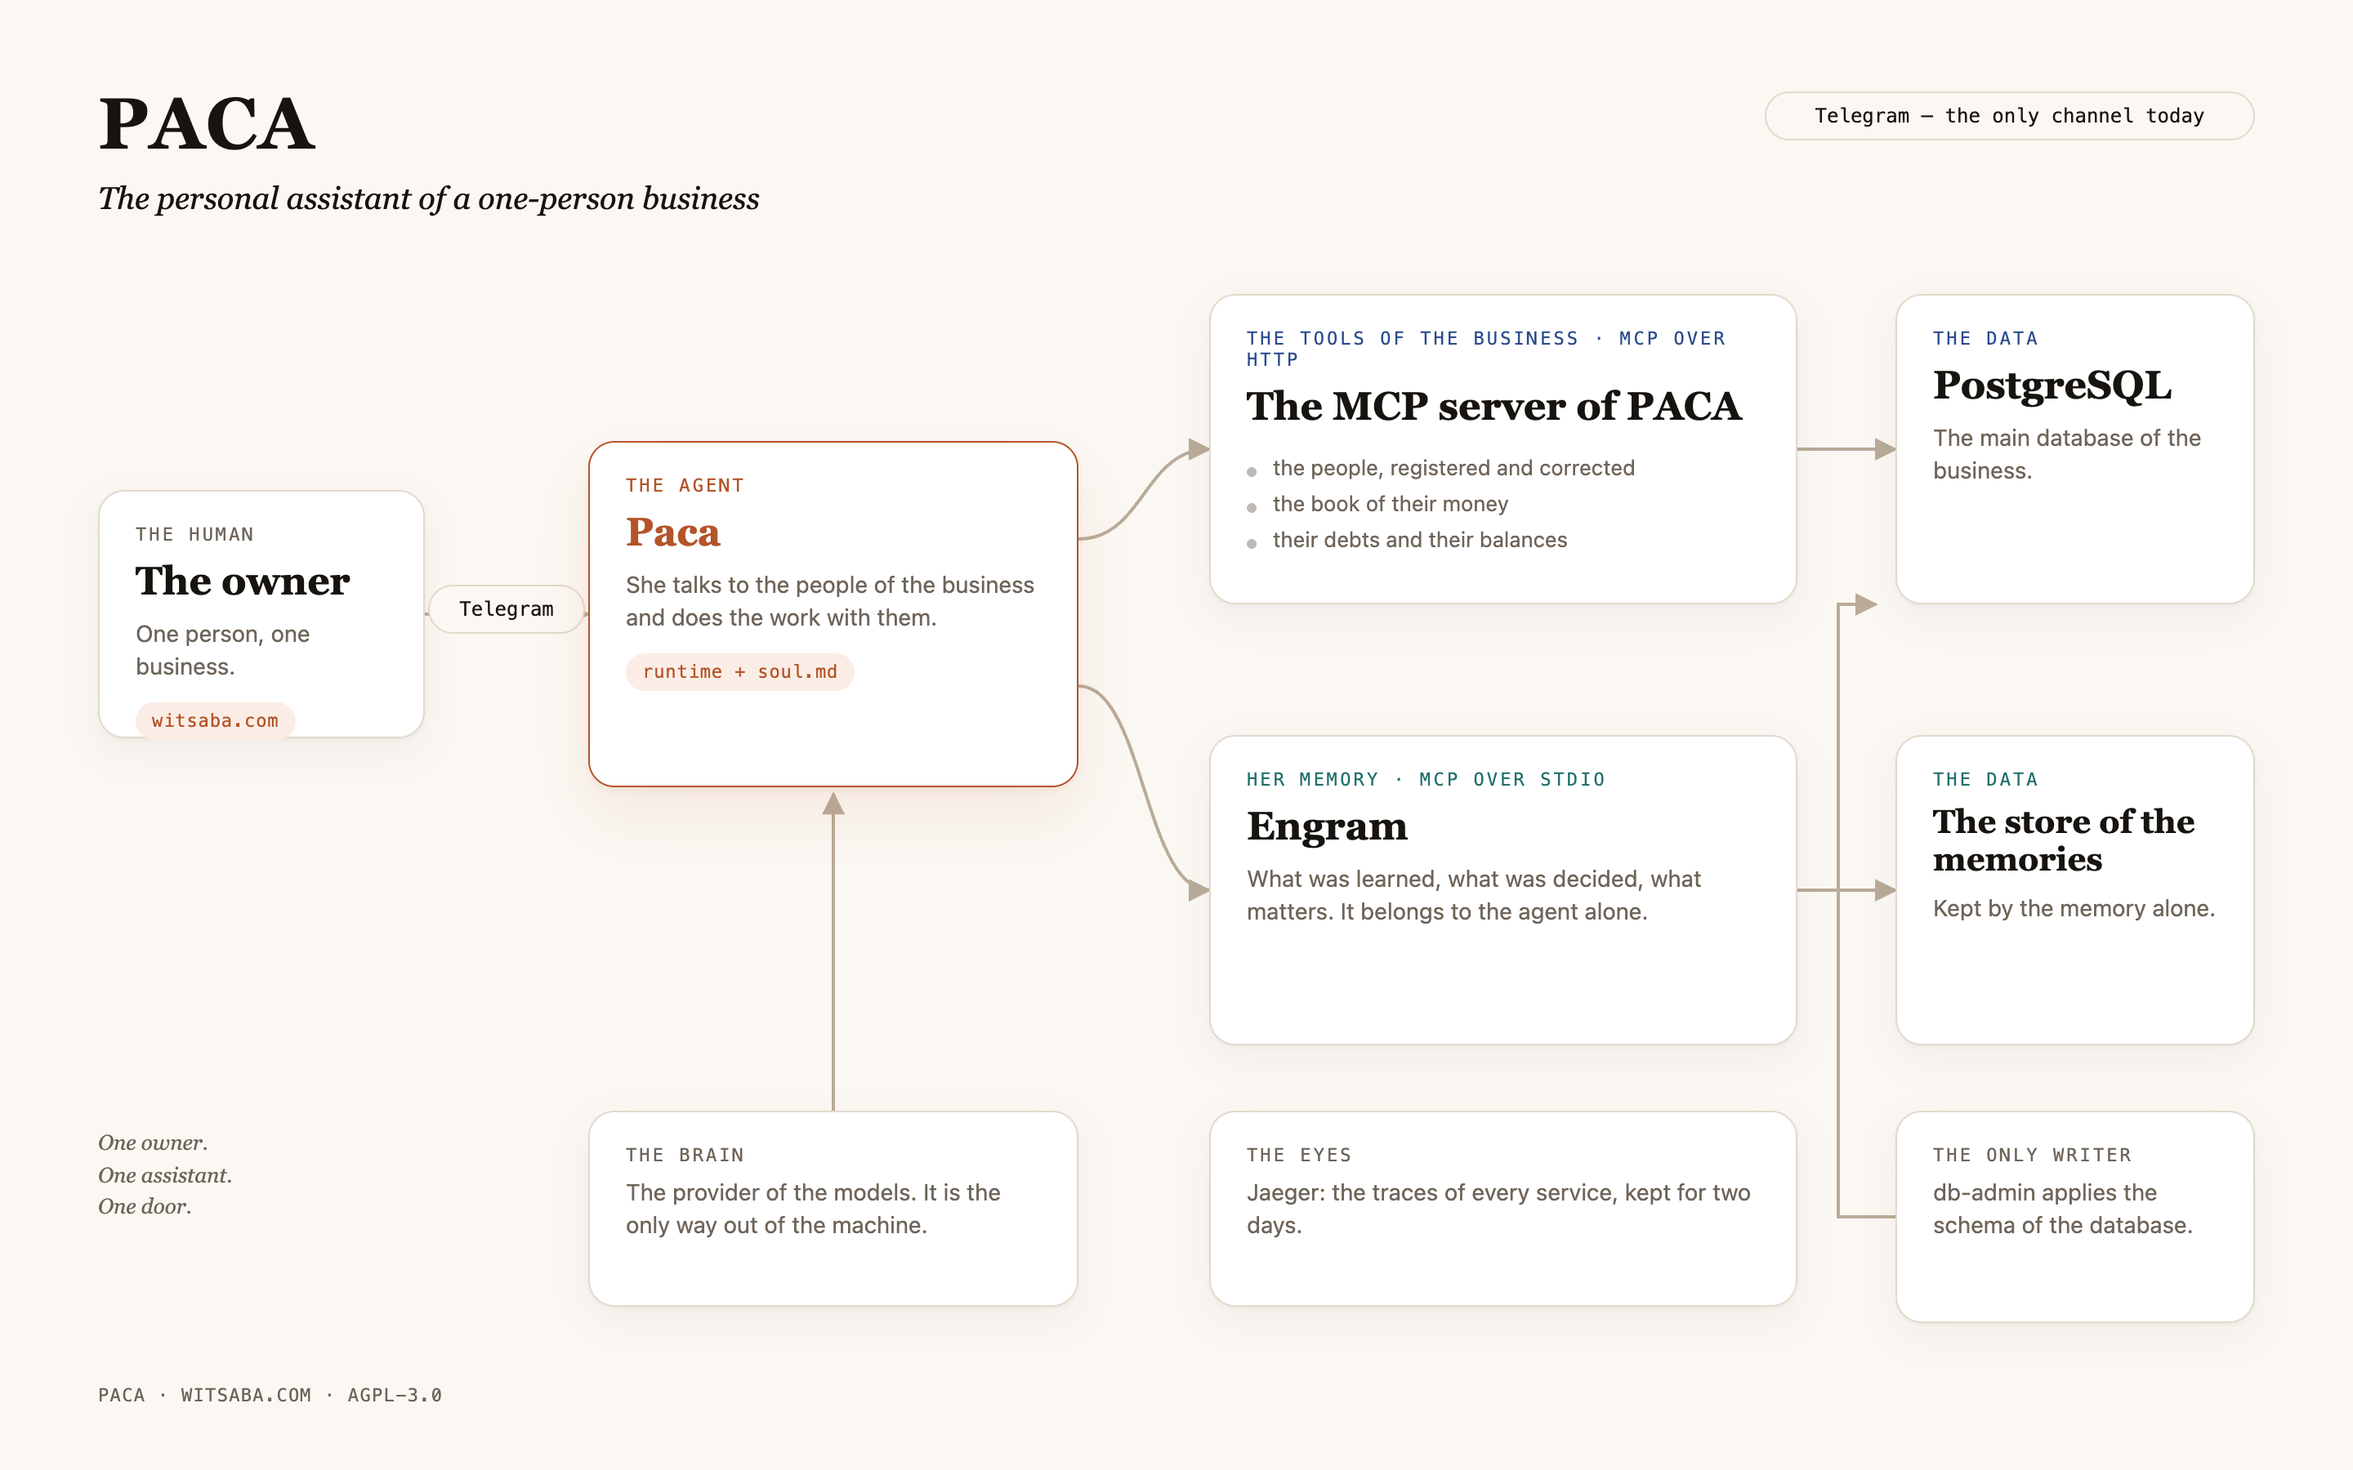
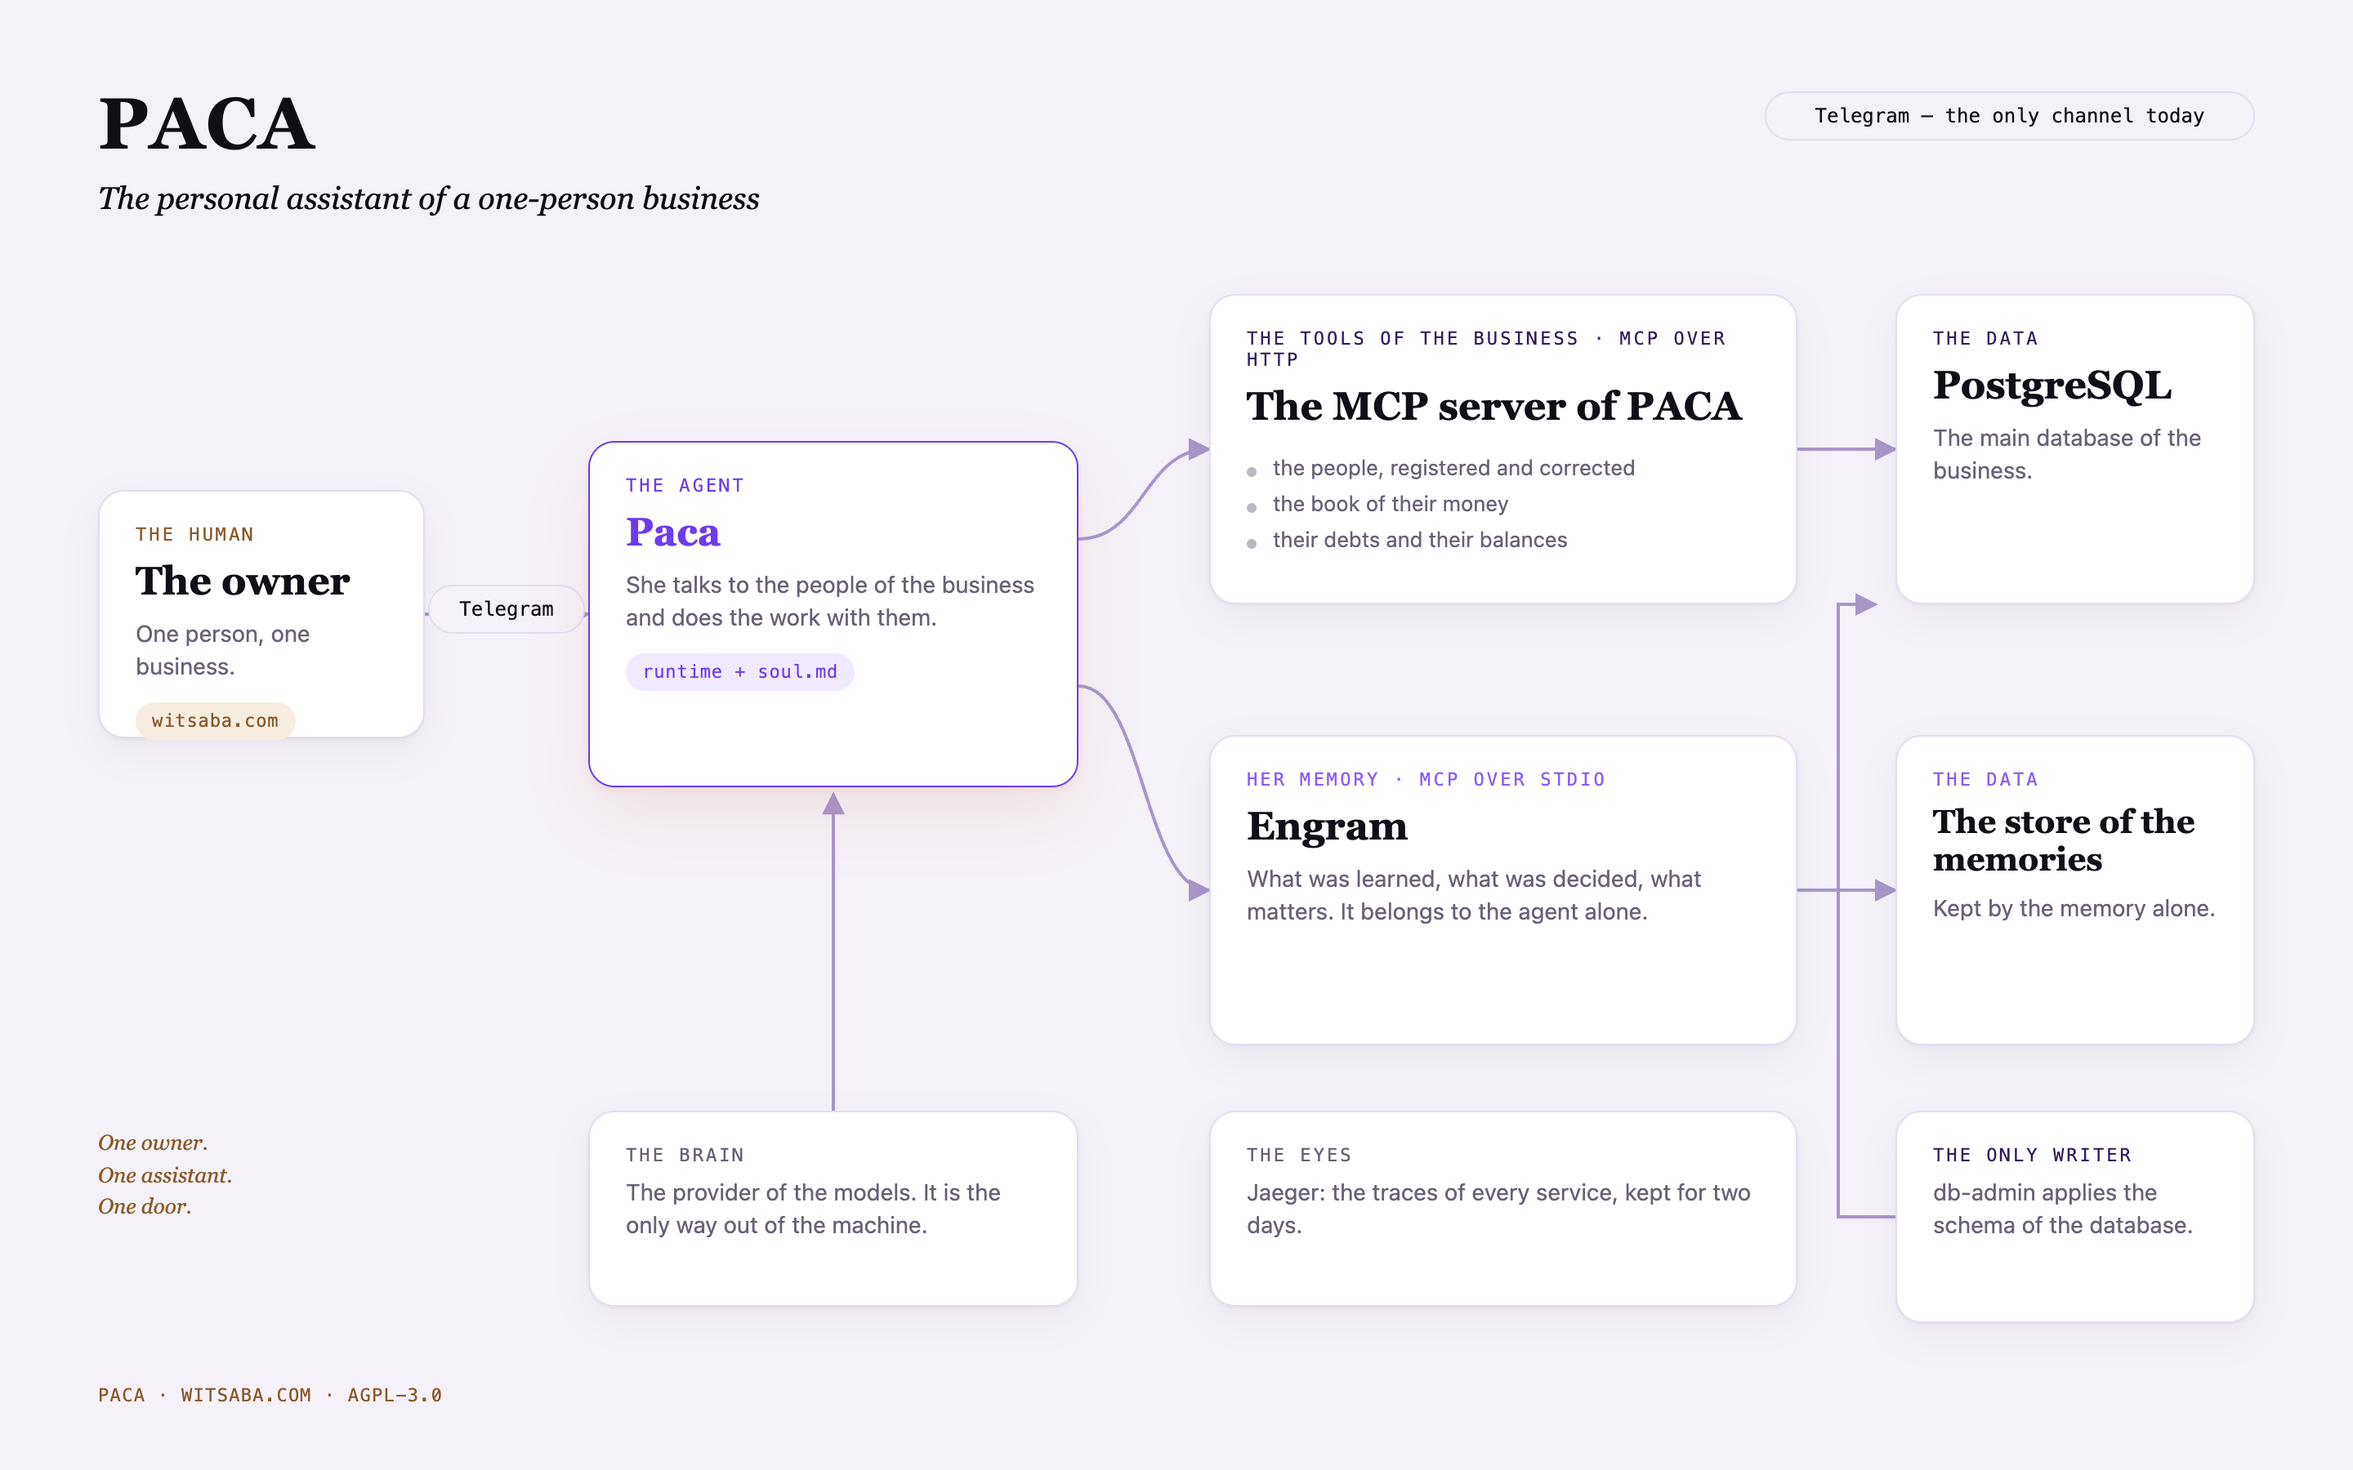
style(design): make PACA purple-dominant, with black and brown
The palette of the artboards said terracotta, blue and teal. Paca is
purple: the accent of the agent, the deep violet of the tools and the
data, the mauve of the memory, the black of the ink and the brown of
the human and of the warmth.

diff --git a/design/paca-architecture/02-blueprint.html b/design/paca-architecture/02-blueprint.html
@@ -5,8 +5,8 @@
 <title>PACA — architecture, blueprint</title>
 <style>
   :root{
-    --bg:#0A1020; --panel:#111A2E; --line:#1E2B47; --grid:#16223A;
-    --ink:#E8EDF7; --muted:#8496B5; --cyan:#4FD1C5; --amber:#F6AD55; --violet:#A78BFA; --blue:#63B3ED;
+    --bg:#0C0812; --panel:#150F20; --line:#2A1F42; --grid:#1A1230;
+    --ink:#EFEAF8; --muted:#9A8DB5; --purple:#A78BFA; --purple-deep:#7C5CE8; --mauve:#C4B5FD; --brown:#B07C4A;
     --mono:ui-monospace,SFMono-Regular,Menlo,Consolas,"Liberation Mono",monospace;
   }
   *{box-sizing:border-box}
@@ -35,10 +35,10 @@
   <svg class="svg" viewBox="0 0 1440 900" aria-hidden="true">
     <defs>
       <marker id="a" viewBox="0 0 10 10" refX="9" refY="5" markerWidth="7" markerHeight="7" orient="auto-start-reverse">
-        <path d="M0,0 L10,5 L0,10 z" fill="#5C7196"/>
+        <path d="M0,0 L10,5 L0,10 z" fill="#6E5C93"/>
       </marker>
     </defs>
-    <g fill="none" stroke="#5C7196" stroke-width="2" stroke-dasharray="5 6" marker-end="url(#a)">
+    <g fill="none" stroke="#6E5C93" stroke-width="2" stroke-dasharray="5 6" marker-end="url(#a)">
       <path d="M260,376 L360,376"/>
       <path d="M660,330 C700,330 700,275 740,275"/>
       <path d="M660,420 C700,420 700,545 740,545"/>
@@ -52,59 +52,60 @@
   <div class="h1">PACA</div>
   <div class="h2">// the personal assistant of a one-person business</div>
   <div class="legend">
-    <div><span class="dot" style="background:var(--amber)"></span>agent</div>
-    <div><span class="dot" style="background:var(--blue)"></span>tools &amp; data</div>
-    <div><span class="dot" style="background:var(--cyan)"></span>memory</div>
+    <div><span class="dot" style="background:var(--purple)"></span>agent</div>
+    <div><span class="dot" style="background:var(--purple-deep)"></span>tools &amp; data</div>
+    <div><span class="dot" style="background:var(--mauve)"></span>memory</div>
+    <div><span class="dot" style="background:var(--brown)"></span>the human</div>
   </div>
-  <div class="badge" style="left:1060px;top:120px">telegram // the only channel today</div>
+  <div class="badge" style="left:60px;top:148px">telegram // the only channel today</div>
 
-  <div class="node" style="left:60px;top:300px;width:200px;height:152px;border-color:#3A4B70">
-    <div class="k">the human</div>
+  <div class="node" style="left:60px;top:300px;width:200px;height:152px;border-color:#4A3826">
+    <div class="k" style="color:var(--brown)">the human</div>
     <div class="t">The owner</div>
     <div class="d">One person, one business.<br>witsaba.com</div>
   </div>
 
-  <div class="node" style="left:360px;top:270px;width:300px;height:212px;border-color:var(--amber);box-shadow:0 0 0 1px rgba(246,173,85,.18)">
-    <div class="k" style="color:var(--amber)">the agent</div>
-    <div class="t" style="color:var(--amber)">Paca</div>
+  <div class="node" style="left:360px;top:270px;width:300px;height:212px;border-color:var(--purple);box-shadow:0 0 0 1px rgba(167,139,250,.20)">
+    <div class="k" style="color:var(--purple)">the agent</div>
+    <div class="t" style="color:var(--purple)">Paca</div>
     <div class="d">Hermes runtime + soul.md.<br>She talks and works.</div>
   </div>
 
-  <div class="node" style="left:740px;top:180px;width:360px;height:190px;border-color:var(--blue)">
-    <div class="k" style="color:var(--blue)">the tools of the business</div>
+  <div class="node" style="left:740px;top:180px;width:360px;height:190px;border-color:var(--purple-deep)">
+    <div class="k" style="color:var(--purple-deep)">the tools of the business</div>
     <div class="t">The MCP server of PACA</div>
     <div class="d">people · book of money · debts<br>custom tools, MCP over HTTP</div>
   </div>
 
-  <div class="node" style="left:740px;top:450px;width:360px;height:190px;border-color:var(--cyan)">
-    <div class="k" style="color:var(--cyan)">her memory</div>
+  <div class="node" style="left:740px;top:450px;width:360px;height:190px;border-color:var(--mauve)">
+    <div class="k" style="color:var(--mauve)">her memory</div>
     <div class="t">Engram</div>
     <div class="d">What was learned and decided.<br>MCP over stdio.</div>
   </div>
 
-  <div class="node" style="left:1160px;top:180px;width:220px;height:190px;border-color:var(--blue)">
-    <div class="k" style="color:var(--blue)">the data</div>
+  <div class="node" style="left:1160px;top:180px;width:220px;height:190px;border-color:var(--purple-deep)">
+    <div class="k" style="color:var(--purple-deep)">the data</div>
     <div class="t">PostgreSQL</div>
     <div class="d">the main database</div>
   </div>
 
-  <div class="node" style="left:1160px;top:450px;width:220px;height:190px;border-color:var(--cyan)">
-    <div class="k" style="color:var(--cyan)">the data</div>
+  <div class="node" style="left:1160px;top:450px;width:220px;height:190px;border-color:var(--mauve)">
+    <div class="k" style="color:var(--mauve)">the data</div>
     <div class="t" style="font-size:17px">The store of the memories</div>
     <div class="d">kept by the memory alone</div>
   </div>
 
-  <div class="node" style="left:360px;top:680px;width:300px;height:130px;border-color:#3A4B70">
+  <div class="node" style="left:360px;top:680px;width:300px;height:130px;border-color:#4A3826">
     <div class="k">the brain</div>
     <div class="d" style="margin-top:8px">the provider of the models — the only way out of the machine</div>
   </div>
 
-  <div class="node" style="left:740px;top:680px;width:360px;height:130px;border-color:#3A4B70">
+  <div class="node" style="left:740px;top:680px;width:360px;height:130px;border-color:#4A3826">
     <div class="k">the eyes</div>
     <div class="d" style="margin-top:8px">jaeger — the traces of every service, kept for two days</div>
   </div>
 
-  <div class="node" style="left:1160px;top:680px;width:220px;height:130px;border-color:#3A4B70">
+  <div class="node" style="left:1160px;top:680px;width:220px;height:130px;border-color:#4A3826">
     <div class="k">the only writer</div>
     <div class="d" style="margin-top:8px">db-admin applies the schema</div>
   </div>
@@ -115,7 +116,7 @@
   <div class="elabel" style="left:1108px;top:252px">sql</div>
   <div class="elabel" style="left:1108px;top:522px">socket</div>
   <div class="elabel" style="left:520px;top:566px">models</div>
-  <div class="elabel" style="left:1102px;top:700px">migrations</div>
+  <div class="elabel" style="right:60px;top:818px">migrations</div>
 
   <div class="foot">paca · witsaba.com · agpl-3.0 · built with gentle-shell</div>
 </div>

diff --git a/design/paca-architecture/01-editorial-river.html b/design/paca-architecture/01-editorial-river.html
@@ -5,9 +5,10 @@
 <title>PACA — architecture, editorial river</title>
 <style>
   :root{
-    --paper:#FBF8F3; --card:#FFFFFF; --ink:#17130F; --muted:#6E6459;
-    --line:#E3D9CB; --accent:#B4542A; --accent-soft:#FBEDE5;
-    --data:#2A4B8D; --data-soft:#EDF1FA; --mem:#1F6F6B; --mem-soft:#E7F2F1;
+    --paper:#F5F1F8; --card:#FFFFFF; --ink:#120E18; --muted:#6B6076;
+    --line:#E4DBF0; --accent:#6D3BEF; --accent-soft:#F1E9FF;
+    --data:#331B5E; --data-soft:#EFE9F8; --mem:#8B5CF6; --mem-soft:#F3EDFF;
+    --brown:#8A5A2B; --brown-soft:#F6ECDF;
     --display:Georgia,"Iowan Old Style","Times New Roman",serif;
     --body:-apple-system,BlinkMacSystemFont,"Segoe UI",Roboto,Helvetica,Arial,sans-serif;
     --mono:ui-monospace,SFMono-Regular,Menlo,Consolas,monospace;
@@ -30,13 +31,14 @@
   .t-mem{background:var(--mem-soft);color:var(--mem)}
   .t-data{background:var(--data-soft);color:var(--data)}
   .t-acc{background:var(--accent-soft);color:var(--accent)}
+  .t-warm{background:var(--brown-soft);color:var(--brown)}
   .list{margin:12px 0 0;padding:0;list-style:none;font-size:13px;color:var(--muted)}
   .list li{padding:3px 0 3px 16px;position:relative}
   .list li::before{content:"";position:absolute;left:0;top:11px;width:6px;height:6px;border-radius:50%;background:currentColor;opacity:.45}
   .chip{position:absolute;background:var(--paper);border:1px solid var(--line);border-radius:999px;
         padding:7px 12px;font-family:var(--mono);font-size:12px;color:var(--ink);text-align:center}
-  .note{position:absolute;font-size:13px;line-height:1.5;color:var(--muted);font-family:var(--display);font-style:italic}
-  .foot{position:absolute;font-family:var(--mono);font-size:11px;color:var(--muted);letter-spacing:.06em}
+  .note{position:absolute;font-size:13px;line-height:1.5;color:var(--brown);font-family:var(--display);font-style:italic}
+  .foot{position:absolute;font-family:var(--mono);font-size:11px;color:var(--brown);letter-spacing:.06em}
 </style>
 </head>
 <body>
@@ -44,10 +46,10 @@
   <svg class="svg" viewBox="0 0 1440 900" aria-hidden="true">
     <defs>
       <marker id="a" viewBox="0 0 10 10" refX="9" refY="5" markerWidth="7" markerHeight="7" orient="auto-start-reverse">
-        <path d="M0,0 L10,5 L0,10 z" fill="#B9AB98"/>
+        <path d="M0,0 L10,5 L0,10 z" fill="#A896C9"/>
       </marker>
     </defs>
-    <g fill="none" stroke="#B9AB98" stroke-width="2" marker-end="url(#a)">
+    <g fill="none" stroke="#A896C9" stroke-width="2" marker-end="url(#a)">
       <path d="M260,376 L360,376"/>
       <path d="M660,330 C700,330 700,275 740,275"/>
       <path d="M660,420 C700,420 700,545 740,545"/>
@@ -68,10 +70,10 @@
 
   <!-- The owner -->
   <div class="card" style="left:60px;top:300px;width:200px;height:152px">
-    <div class="eyebrow">The human</div>
+    <div class="eyebrow" style="color:var(--brown)">The human</div>
     <h2>The owner</h2>
     <p>One person, one business.</p>
-    <span class="tag t-acc">witsaba.com</span>
+    <span class="tag t-warm">witsaba.com</span>
   </div>
 
   <div class="chip" style="left:262px;top:358px;width:96px">Telegram</div>
@@ -126,7 +128,7 @@
   </div>
 
   <div class="card" style="left:1160px;top:680px;width:220px;height:130px">
-    <div class="eyebrow">The only writer</div>
+    <div class="eyebrow" style="color:var(--data)">The only writer</div>
     <p style="margin-top:6px">db-admin applies the schema of the database.</p>
   </div>
 

diff --git a/design/paca-architecture/03-layered-stack.html b/design/paca-architecture/03-layered-stack.html
@@ -5,9 +5,9 @@
 <title>PACA — architecture, layered stack</title>
 <style>
   :root{
-    --paper:#F5F2EE; --card:#FFFFFF; --ink:#16130F; --muted:#6E6459; --line:#E2DACE;
-    --accent:#B4542A; --accent-soft:#FBEDE5; --data:#2A4B8D; --data-soft:#EDF1FA;
-    --mem:#1F6F6B; --mem-soft:#E7F2F1;
+    --paper:#F4F0F8; --card:#FFFFFF; --ink:#120E18; --muted:#6B6076; --line:#E4DBF0;
+    --accent:#6D3BEF; --accent-soft:#F1E9FF; --data:#331B5E; --data-soft:#EFE9F8;
+    --mem:#8B5CF6; --mem-soft:#F3EDFF; --brown:#8A5A2B; --brown-soft:#F6ECDF;
     --display:Georgia,"Iowan Old Style","Times New Roman",serif;
     --body:-apple-system,BlinkMacSystemFont,"Segoe UI",Roboto,Helvetica,Arial,sans-serif;
     --mono:ui-monospace,SFMono-Regular,Menlo,Consolas,monospace;
@@ -20,7 +20,7 @@
   .h2{position:absolute;left:60px;top:94px;font-size:15px;color:var(--muted);margin:0}
   .band{position:absolute;left:200px;border:1px solid var(--line);border-radius:18px;background:rgba(255,255,255,.55)}
   .rail{position:absolute;left:60px;width:120px}
-  .rail .n{font-family:var(--mono);font-size:11px;letter-spacing:.16em;color:var(--accent)}
+  .rail .n{font-family:var(--mono);font-size:11px;letter-spacing:.16em;color:var(--brown)}
   .rail .t{font-family:var(--display);font-size:17px;margin-top:6px;line-height:1.25}
   .card{position:absolute;background:var(--card);border:1px solid var(--line);border-radius:14px;padding:14px 18px;
         box-shadow:0 1px 2px rgba(22,19,15,.04)}
@@ -36,10 +36,10 @@
   <svg class="svg" viewBox="0 0 1440 900" aria-hidden="true">
     <defs>
       <marker id="a" viewBox="0 0 10 10" refX="9" refY="5" markerWidth="7" markerHeight="7" orient="auto-start-reverse">
-        <path d="M0,0 L10,5 L0,10 z" fill="#C0B3A2"/>
+        <path d="M0,0 L10,5 L0,10 z" fill="#A896C9"/>
       </marker>
     </defs>
-    <g fill="none" stroke="#C0B3A2" stroke-width="2" marker-end="url(#a)">
+    <g fill="none" stroke="#A896C9" stroke-width="2" marker-end="url(#a)">
       <path d="M380,240 L380,268"/>
       <path d="M520,368 L520,408"/>
       <path d="M760,368 C800,368 800,408 860,408"/>
@@ -58,7 +58,7 @@
   <div class="band" style="top:130px;width:1180px;height:110px"></div>
   <div class="rail" style="top:150px"><div class="n">01</div><div class="t">The channel</div></div>
   <div class="card" style="left:240px;top:160px;width:280px;height:64px;display:flex;align-items:center;gap:12px">
-    <div class="n" style="margin:0;font-size:18px">Telegram</div>
+    <div class="n" style="margin:0;font-size:18px;color:var(--brown)">Telegram</div>
     <div class="d" style="margin:0">the only one today</div>
   </div>
   <div class="card" style="left:560px;top:160px;width:780px;height:64px;display:flex;align-items:center">
@@ -103,7 +103,7 @@
     <div class="n">PostgreSQL</div>
   </div>
   <div class="card" style="left:640px;top:584px;width:280px;height:96px">
-    <div class="k">the only writer</div>
+    <div class="k" style="color:var(--brown)">the only writer</div>
     <div class="n" style="font-size:18px">db-admin</div>
     <div class="d">applies the schema</div>
   </div>
